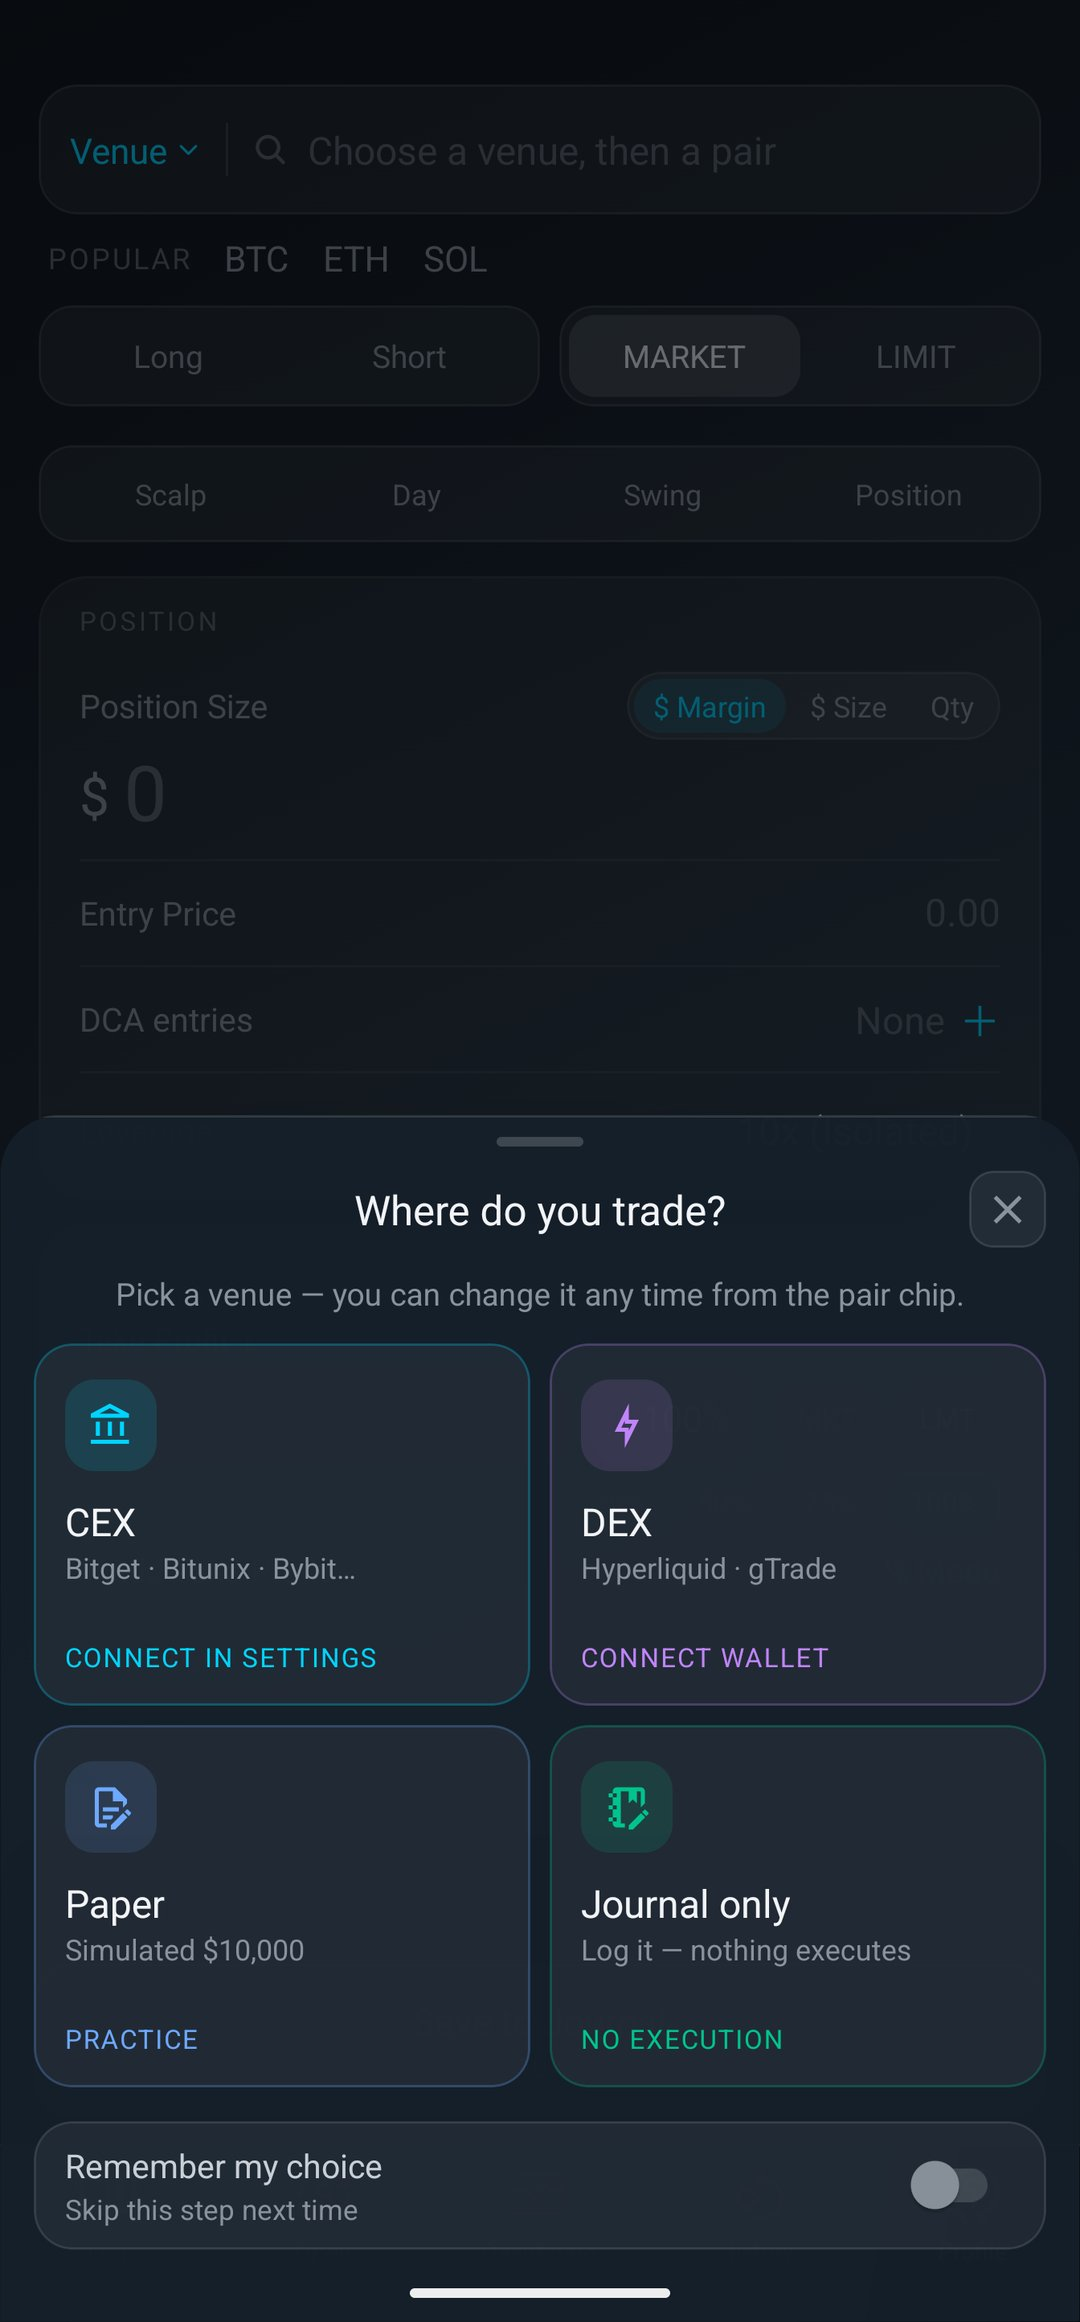
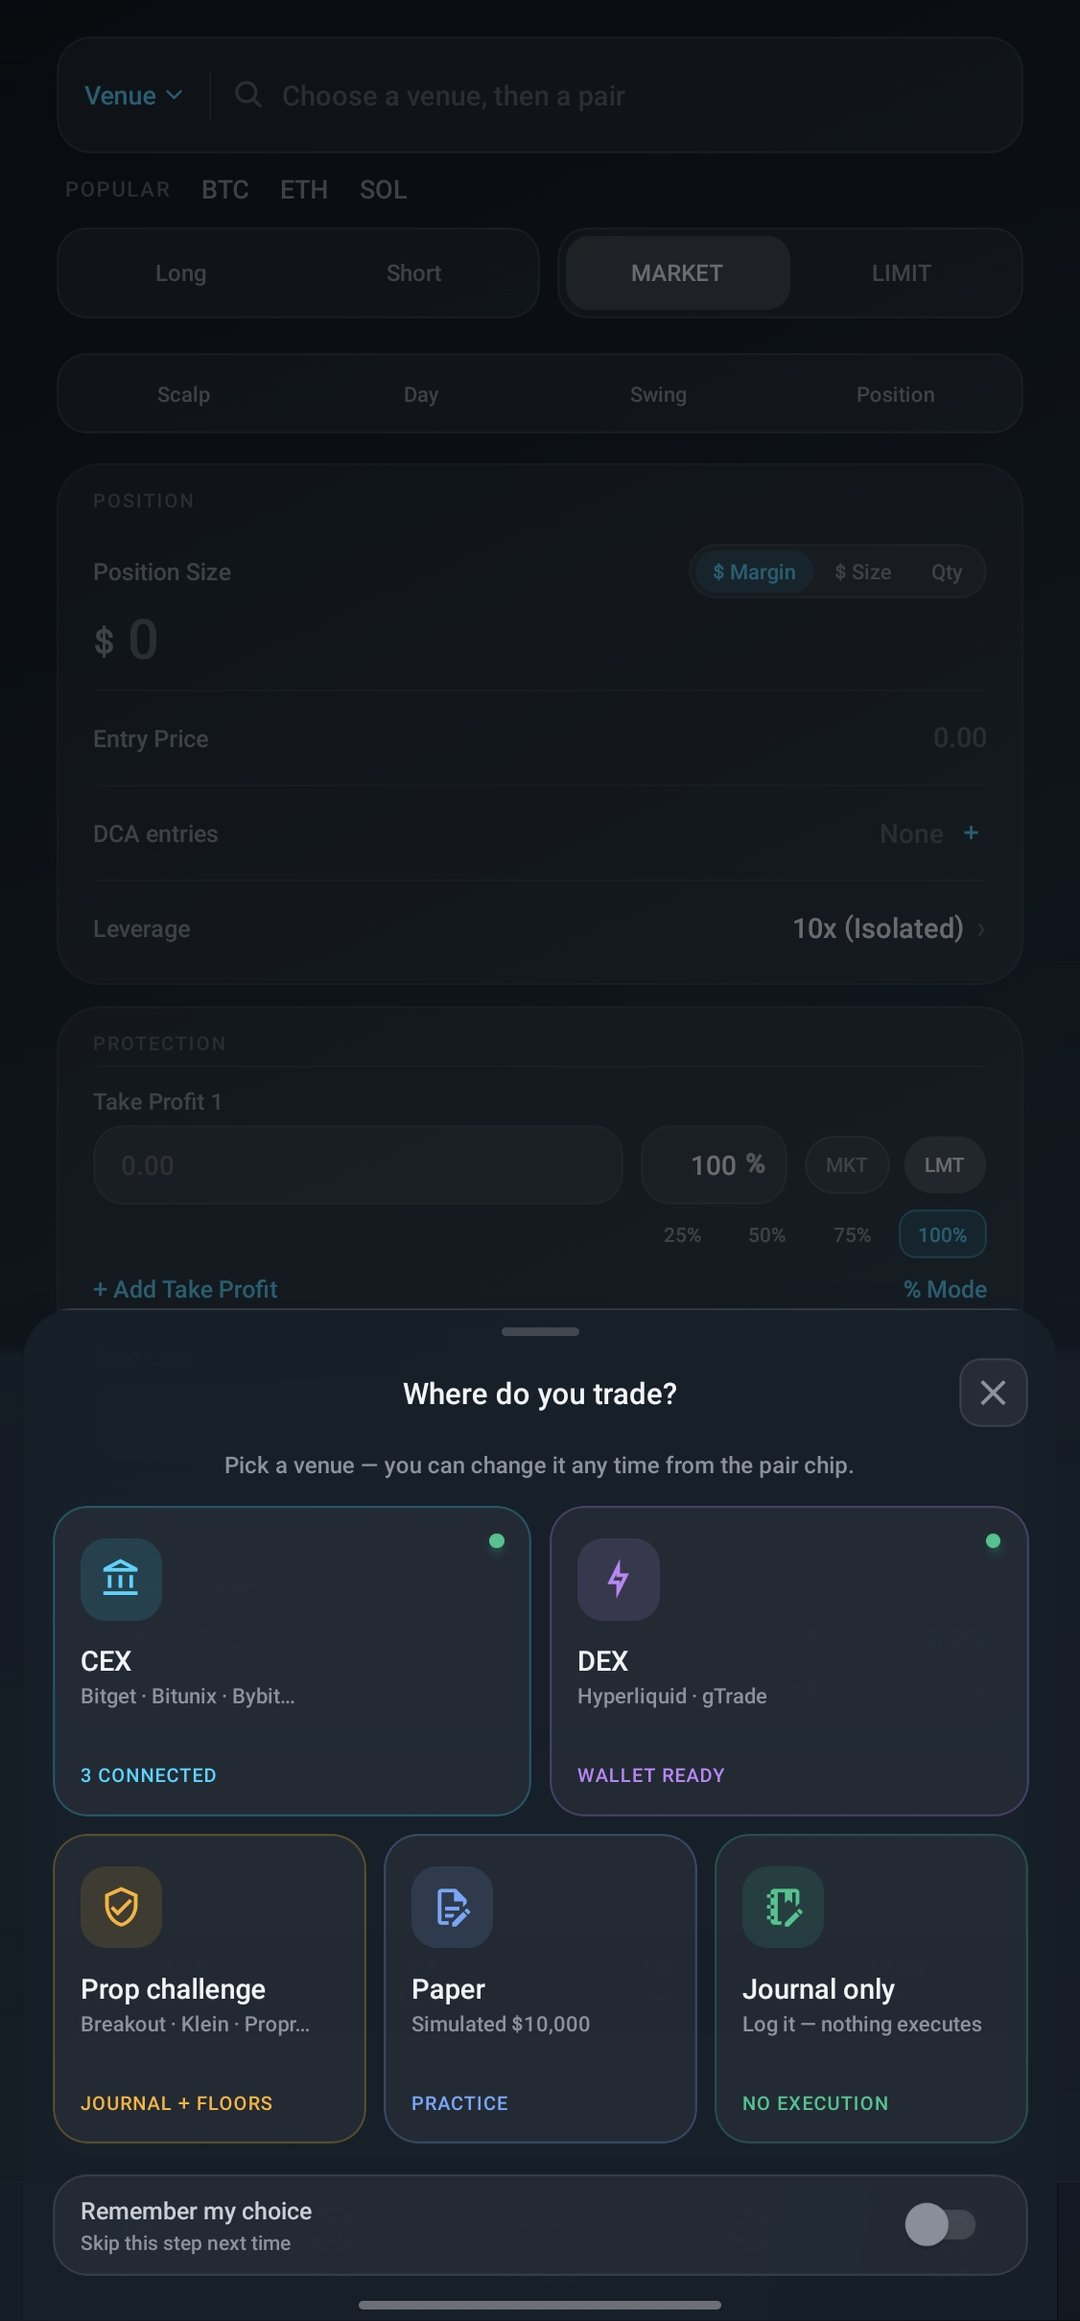
feat(site): execution on the carousel — venue sheet and Buy on Hyperliquid
Swaps the emulator venue sheet (connect CTAs) for a device capture with
3 CEX connected, wallet ready and the Prop challenge option, and adds the
Log form on Hyperliquid with the Buy BTC market button. Thirteen screens.

diff --git a/index.html b/index.html
@@ -1105,33 +1105,36 @@
             <img src="/screenshots/plans.jpg" alt="Plans with Live Chart" loading="lazy">
           </div>
           <div class="screenshot-frame" data-index="2">
-            <img src="/screenshots/venues.jpg" alt="Choose Where You Trade: Exchange, Wallet, Paper or Journal" loading="lazy">
+            <img src="/screenshots/venues.jpg" alt="Choose Where You Trade: Exchange, Wallet, Prop, Paper or Journal" loading="lazy">
           </div>
           <div class="screenshot-frame" data-index="3">
-            <img src="/screenshots/positions.jpg" alt="Open Positions: Manage and Close" loading="lazy">
+            <img src="/screenshots/execute.jpg" alt="Execute on Hyperliquid: Buy BTC at Market" loading="lazy">
           </div>
           <div class="screenshot-frame" data-index="4">
-            <img src="/screenshots/trade-detail.jpg" alt="Trade Detail" loading="lazy">
+            <img src="/screenshots/positions.jpg" alt="Open Positions: Manage and Close" loading="lazy">
           </div>
           <div class="screenshot-frame" data-index="5">
-            <img src="/screenshots/ai-coach.jpg" alt="AI Coach" loading="lazy">
+            <img src="/screenshots/trade-detail.jpg" alt="Trade Detail" loading="lazy">
           </div>
           <div class="screenshot-frame" data-index="6">
-            <img src="/screenshots/checklist.jpg" alt="Pre-trade Checklist" loading="lazy">
+            <img src="/screenshots/ai-coach.jpg" alt="AI Coach" loading="lazy">
           </div>
           <div class="screenshot-frame" data-index="7">
-            <img src="/screenshots/discipline.jpg" alt="Discipline Tracking" loading="lazy">
+            <img src="/screenshots/checklist.jpg" alt="Pre-trade Checklist" loading="lazy">
           </div>
           <div class="screenshot-frame" data-index="8">
-            <img src="/screenshots/plan-setup.jpg" alt="Setup and Confirmation Alert" loading="lazy">
+            <img src="/screenshots/discipline.jpg" alt="Discipline Tracking" loading="lazy">
           </div>
           <div class="screenshot-frame" data-index="9">
-            <img src="/screenshots/performance.jpg" alt="Performance Dashboard" loading="lazy">
+            <img src="/screenshots/plan-setup.jpg" alt="Setup and Confirmation Alert" loading="lazy">
           </div>
           <div class="screenshot-frame" data-index="10">
-            <img src="/screenshots/patterns.jpg" alt="Pattern Library" loading="lazy">
+            <img src="/screenshots/performance.jpg" alt="Performance Dashboard" loading="lazy">
           </div>
           <div class="screenshot-frame" data-index="11">
+            <img src="/screenshots/patterns.jpg" alt="Pattern Library" loading="lazy">
+          </div>
+          <div class="screenshot-frame" data-index="12">
             <img src="/screenshots/trade-log.jpg" alt="Trade Log" loading="lazy">
           </div>
         </div>
@@ -1149,6 +1152,7 @@
         <button class="carousel-dot" data-index="9" aria-label="Screenshot 10"></button>
         <button class="carousel-dot" data-index="10" aria-label="Screenshot 11"></button>
         <button class="carousel-dot" data-index="11" aria-label="Screenshot 12"></button>
+        <button class="carousel-dot" data-index="12" aria-label="Screenshot 13"></button>
       </div>
     </div>
   </section>
